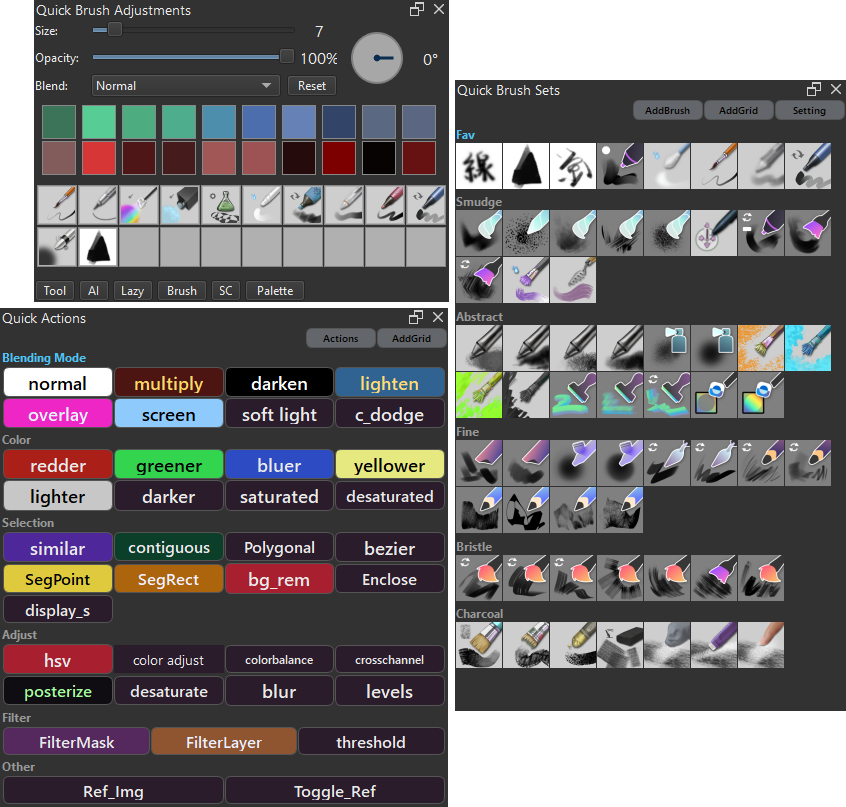
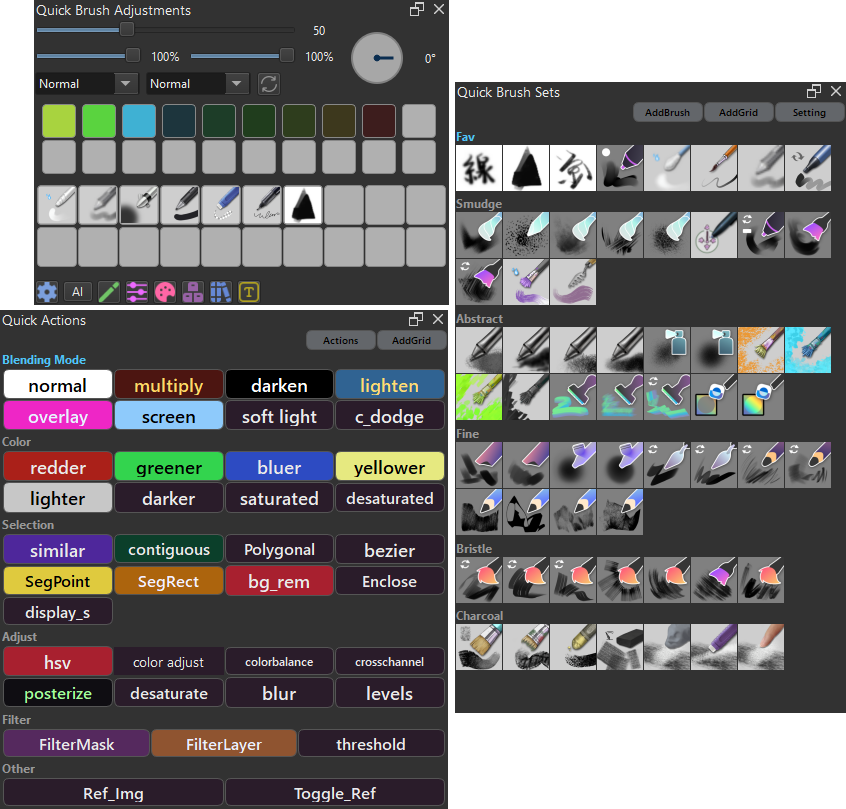
update readme

diff --git a/README.md b/README.md
@@ -83,15 +83,52 @@ There is no profile management function, but you can manually edit these files w
 If you want to reset or backup your settings, you can copy or edit these files directly.
 
 ## Quick Brush Adjustments Docker
-![Setting](./quick_access_manager/image/004.png)
+![Quick Brush Adjustments](./quick_access_manager/image/004.png)
 
-A separate docker specifically for brush adjustments and settings.
+A dedicated docker for quick brush and layer adjustments, providing instant access to commonly used painting settings.
+
+### Features
+
+**Brush Controls:**
+- **Size Slider**: Adjusts brush size from 1 to 1000 pixels with non-linear scaling for precise control of small brushes
+- **Opacity Slider**: Controls brush opacity (0-100%)
+- **Rotation Widget**: Circular dial for intuitive brush rotation adjustment (0-360°)
+- **Blend Mode Dropdown**: Quick access to change the current brush's blending mode
+- **Reset Button**: Instantly reloads the current brush preset to its default settings
+
+**Layer Controls:**
+- **Layer Opacity Slider**: Adjusts the active layer's opacity (0-100%)
+- **Layer Blend Mode Dropdown**: Change the active layer's blending mode
+
+**Color & Brush History:**
+- **Color History**: Quick access to recently used colors
+- **Brush History**: Switch between recently used brush presets
 
 ### Docker Toggle Buttons
-The buttons displayed at the bottom of the Docker can toggle the display On/Off for corresponding Dockers.
-Button management is handled through `quick_access_manager\config\docker_buttons.json`.
-If the configuration file does not exist, it will be created when Krita starts.
+The buttons at the bottom of the docker provide quick show/hide toggles for other Krita dockers (e.g., Tool Options, Layers, Brush Presets).
+
+**Configuration:**
+- Settings are stored in `quick_access_manager\config\docker_buttons.json`
+- The file is auto-created with default buttons on first launch if it doesn't exist
+- To use custom icons, place PNG files in `quick_access_manager\config\icon` (24×24px recommended)
+
+**Button Configuration Format:**
+```json
+{
+  "button_name": "Display Name",
+  "button_width": 50,
+  "button_icon": "filename.png",
+  "docker_keywords": ["keyword1", "keyword2"],
+  "description": "Tooltip text"
+}
+```
 
 ### Customization
-To change the font size on the Docker or modify the selectable Blend Modes,
-edit the parameters in `quick_access_manager\quick_brush_adjust_widgets\__init__.py`.
+To modify the docker's appearance and behavior, edit the parameters in:
+- `quick_access_manager\quick_brush_adjust_widgets\__init__.py`
+
+Available customization options:
+- Font sizes for labels and values
+- Number of color/brush history items
+- Icon sizes for history widgets
+- Available blend modes in dropdowns
